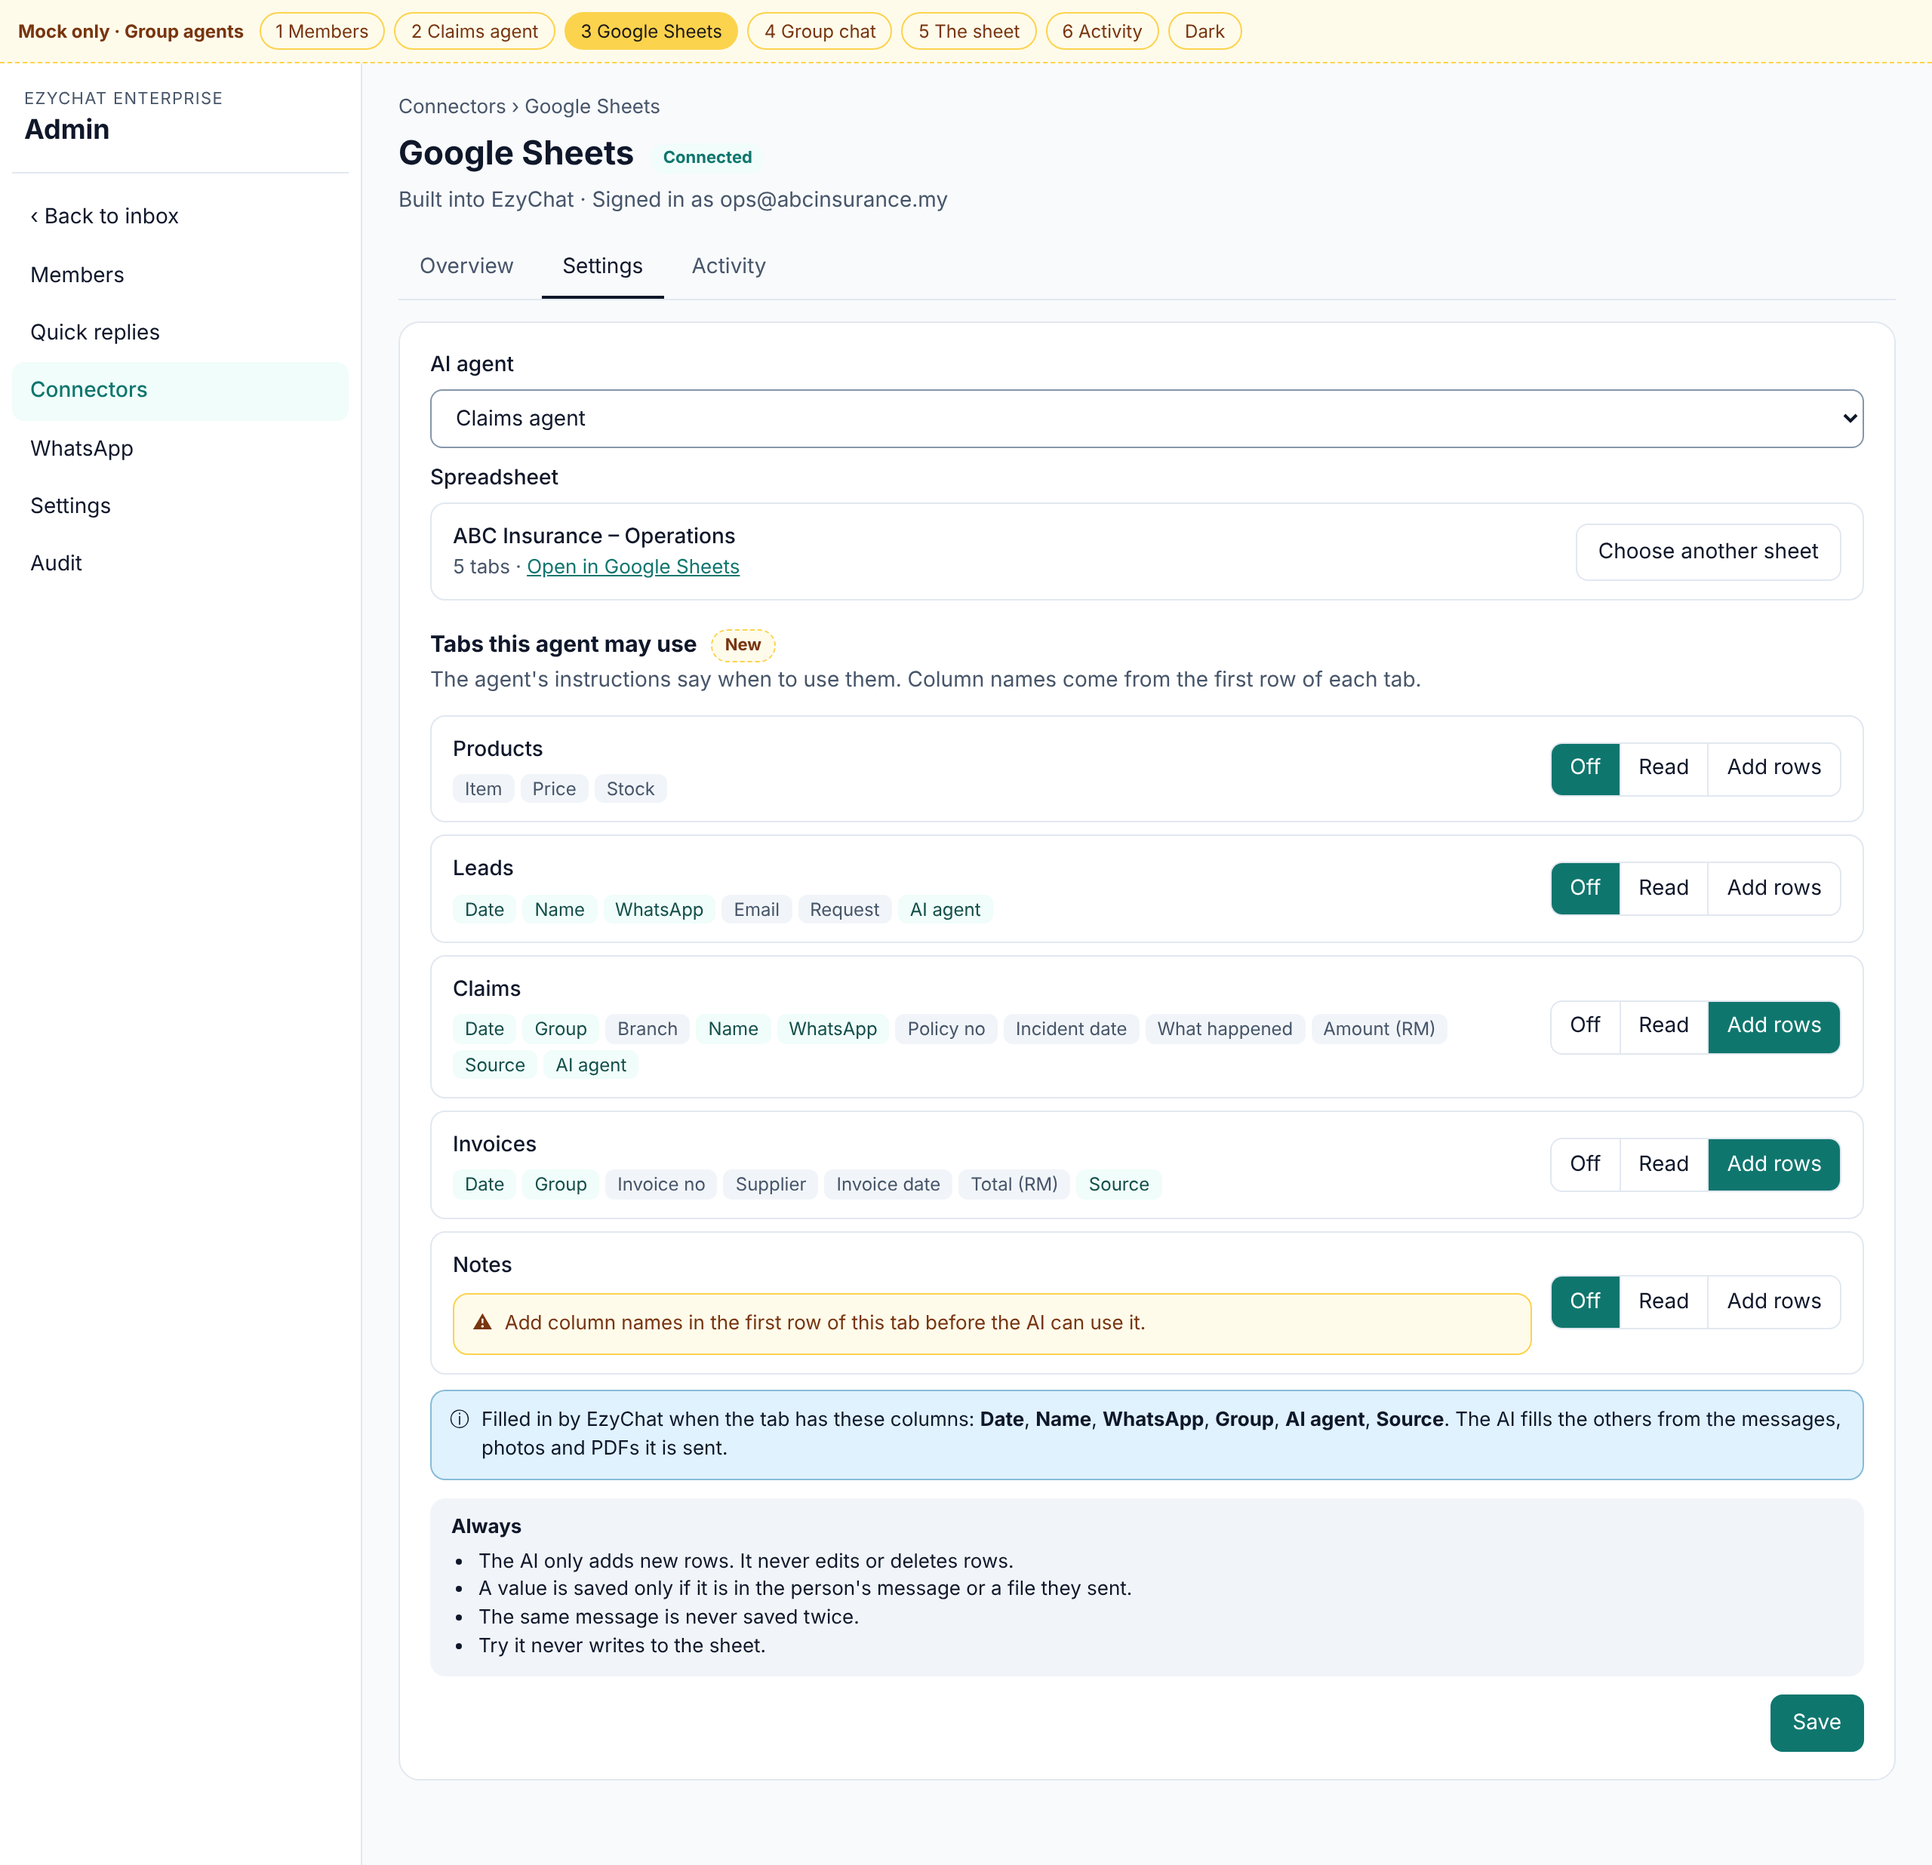
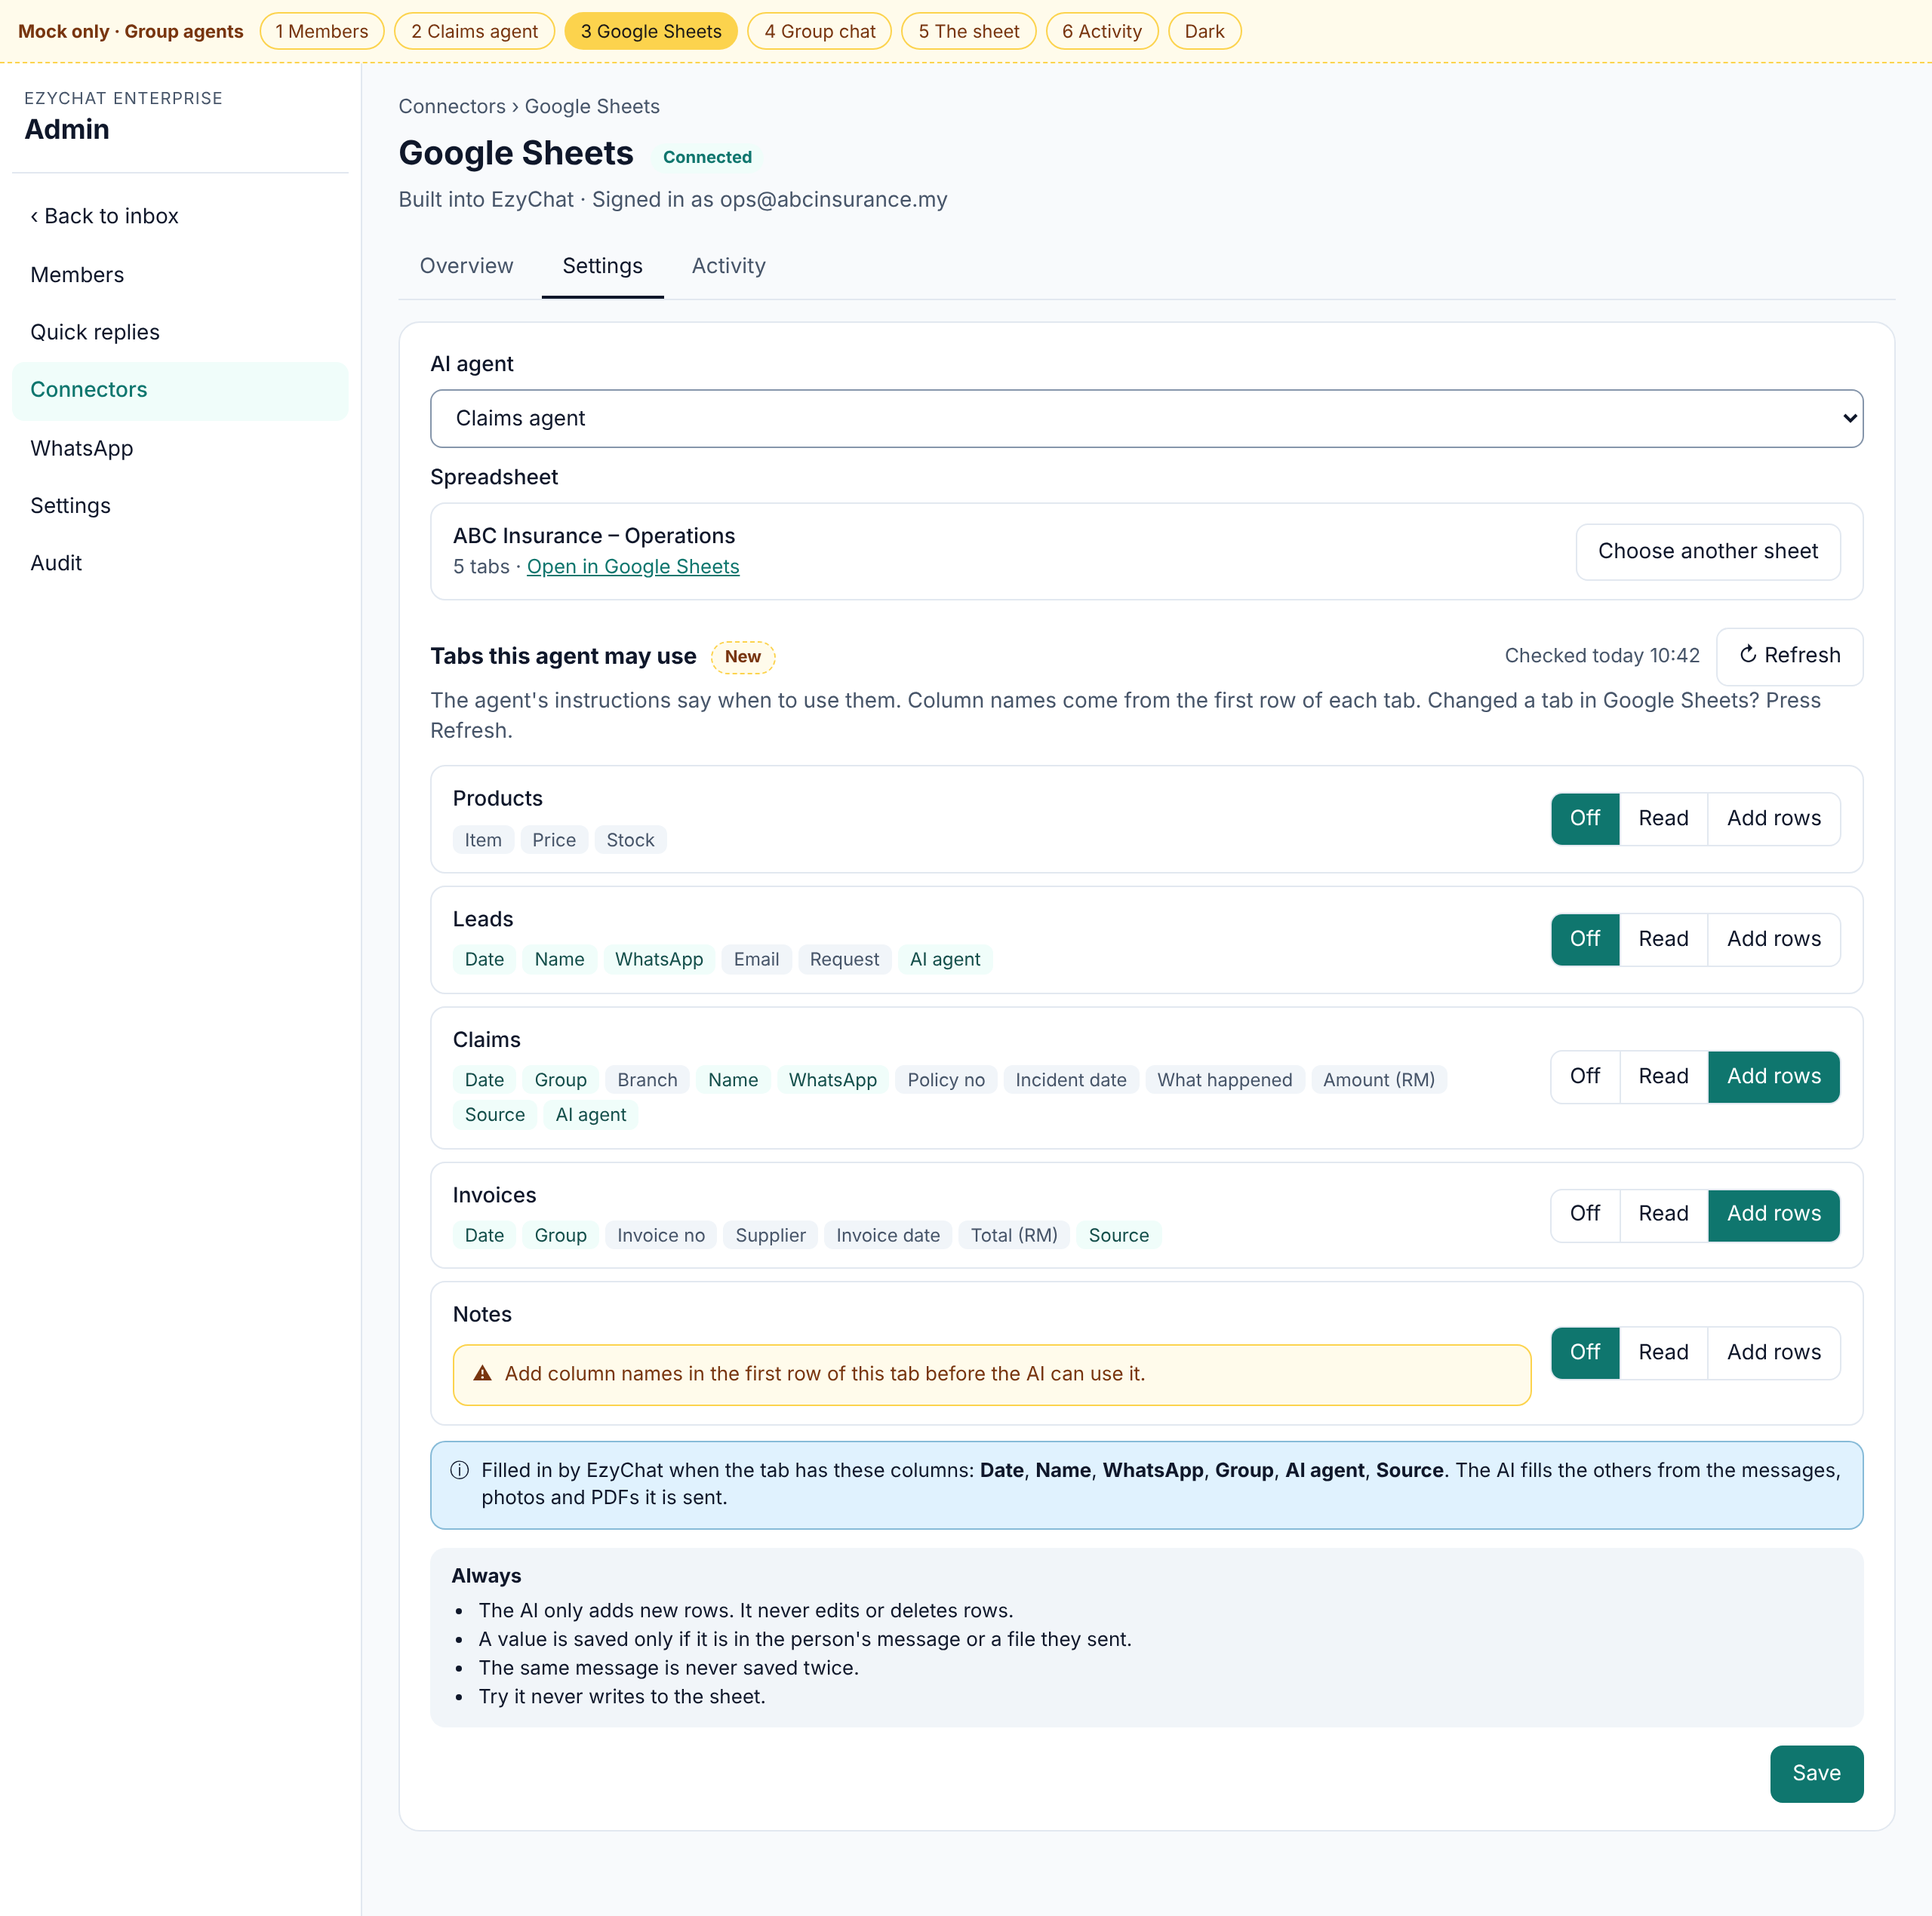
docs(group-agents): Refresh button for Google Sheets tabs and columns
Owner 2026-11-03: refresh after editing a tab in Google Sheets.

Claude-Session: https://claude.ai/code/session_01J4pmGhxhpWixELh6WUYPxh

diff --git a/docs/features/group-agents/mock/preview.html b/docs/features/group-agents/mock/preview.html
@@ -596,6 +596,11 @@
       .menu-btn {
         display: none;
       }
+      .chip.added {
+        outline: 1px dashed var(--note-border);
+        background: var(--note);
+        color: var(--note-foreground);
+      }
       .ctl {
         display: flex;
         align-items: center;
@@ -832,18 +837,23 @@ Ignore greetings and chat that is not a claim.</textarea
               <div class="grow">
                 <div class="t">ABC Insurance – Operations</div>
                 <div class="h">
-                  5 tabs · <a href="#" style="color: var(--primary)">Open in Google Sheets</a>
+                  <span id="tabCount">5 tabs</span> ·
+                  <a href="#" style="color: var(--primary)">Open in Google Sheets</a>
                 </div>
               </div>
               <button class="btn">Choose another sheet</button>
             </div>
 
-            <h2 style="margin-top: 18px">
-              Tabs this agent may use <span class="badge new">New</span>
-            </h2>
+            <div class="row" style="border: 0; padding: 0; margin: 18px 0 0">
+              <h2 style="margin: 0">Tabs this agent may use <span class="badge new">New</span></h2>
+              <div class="ctl">
+                <span class="lbl" id="checked" aria-live="polite">Checked today 10:42</span>
+                <button class="btn" id="refreshTabs">↻ Refresh</button>
+              </div>
+            </div>
             <p class="desc">
               The agent's instructions say when to use them. Column names come from the first row of
-              each tab.
+              each tab. Changed a tab in Google Sheets? Press Refresh.
             </p>
             <div id="tabList"></div>
             <div class="info">
@@ -1115,7 +1125,7 @@ Ignore greetings and chat that is not a claim.</textarea
             (
               t,
               i,
-            ) => `<div class="row"><div class="grow"><div class="t">${t.n}</div>${t.c.length ? `<div class="chips">${t.c.map((c) => `<span class="chip ${AUTO.includes(c) ? 'auto' : ''}">${c}</span>`).join('')}</div>` : ''}
+            ) => `<div class="row"><div class="grow"><div class="t">${t.n}${t.isNew ? ' <span class="badge new">New tab</span>' : ''}${t.changed ? ' <span class="badge new">Columns changed</span>' : ''}</div>${t.c.length ? `<div class="chips">${t.c.map((c) => `<span class="chip ${AUTO.includes(c) ? 'auto' : ''} ${(t.added || []).includes(c) ? 'added' : ''}">${c}</span>`).join('')}</div>` : ''}
   ${!t.c.length ? `<div class="warn">⚠ <span>Add column names in the first row of this tab before the AI can use it.</span></div>` : ''}</div>
   <div class="seg" role="group" aria-label="Access to ${t.n}">${['off', 'read', 'add'].map((a) => `<button aria-pressed="${t.a === a}" data-t="${i}" data-a="${a}" ${!t.c.length && a !== 'off' ? 'disabled' : ''}>${{ off: 'Off', read: 'Read', add: 'Add rows' }[a]}</button>`).join('')}</div></div>`,
           )
@@ -1123,6 +1133,42 @@ Ignore greetings and chat that is not a claim.</textarea
       }
       renderTabs();
       $('#agentSel').onchange = renderTabs;
+      // Refresh: reads the tab names and first rows from Google again (mock: Claims gained "Workshop",
+      // Notes got column names, a new tab "Repairs" appeared and stays Off until an admin turns it on).
+      $('#refreshTabs').onclick = () => {
+        const b = $('#refreshTabs');
+        b.disabled = true;
+        b.textContent = 'Refreshing…';
+        setTimeout(() => {
+          for (const k of Object.keys(tabs)) {
+            const list = tabs[k];
+            const claims = list.find((t) => t.n === 'Claims');
+            if (!claims.c.includes('Workshop')) {
+              claims.c.splice(claims.c.indexOf('Source'), 0, 'Workshop');
+              claims.added = ['Workshop'];
+              claims.changed = true;
+            }
+            const notes = list.find((t) => t.n === 'Notes');
+            if (!notes.c.length) {
+              notes.c = ['Date', 'Group', 'Note'];
+              notes.added = ['Date', 'Group', 'Note'];
+              notes.changed = true;
+            }
+            if (!list.some((t) => t.n === 'Repairs'))
+              list.push({
+                n: 'Repairs',
+                a: 'off',
+                isNew: true,
+                c: ['Date', 'Group', 'Policy no', 'Workshop', 'Status'],
+              });
+          }
+          b.disabled = false;
+          b.textContent = '↻ Refresh';
+          $('#checked').textContent = 'Checked just now · 1 new tab, 2 tabs changed';
+          $('#tabCount').textContent = '6 tabs';
+          renderTabs();
+        }, 600);
+      };
       $('#tabList').addEventListener('click', (e) => {
         const b = e.target.closest('[data-a]');
         if (!b) return;
@@ -1372,20 +1418,18 @@ Ignore greetings and chat that is not a claim.</textarea
         document
           .querySelectorAll('.mockbar [data-go]')
           .forEach((b) => b.setAttribute('aria-pressed', b.dataset.go === id));
-        document
-          .querySelectorAll('nav.side [data-nav]')
-          .forEach((a) =>
-            a.classList.toggle(
-              'active',
-              a.dataset.nav ===
-                {
-                  members: 'members',
-                  agent: 'members',
-                  sheets: 'connectors',
-                  activity: 'connectors',
-                }[id],
-            ),
-          );
+        document.querySelectorAll('nav.side [data-nav]').forEach((a) =>
+          a.classList.toggle(
+            'active',
+            a.dataset.nav ===
+              {
+                members: 'members',
+                agent: 'members',
+                sheets: 'connectors',
+                activity: 'connectors',
+              }[id],
+          ),
+        );
         history.replaceState(null, '', '#' + id);
         window.scrollTo(0, 0);
       }

diff --git a/docs/features/group-agents/design.md b/docs/features/group-agents/design.md
@@ -38,6 +38,7 @@ confirmation"). Created 2026-11-03 (creationOrder 28). Branch `claude/determined
 | Tools     | `read_sheet_rows {tab, query}` and `add_sheet_row {tab, values: {column: value}}`. Their descriptions list only this agent's tabs for that access, each with its column names (first row, read when the turn starts, cached 5 min). No tab on Add rows = no `add_sheet_row`; same for Read.                                                                                                                                                                                                                                                                                  |
 | Columns   | Values are matched to the tab's first-row names (case and spacing ignored); unknown names are refused with the list of valid ones. Columns named Date, Name, WhatsApp, Group, AI agent are filled by EzyChat (business time zone, saved/WhatsApp name, the sender's number, the group's name so one sheet can serve many groups, e.g. one per branch, agent name) unless the AI passes a value.                                                                                                                                                                              |
 | Empty tab | Add rows needs a first row; Settings shows "Add column names in the first row of this tab" and the tool is not offered for it.                                                                                                                                                                                                                                                                                                                                                                                                                                               |
+| Refresh   | Settings shows when the tabs were last checked and a **Refresh** button: `POST /api/connectors/google-sheets/agents/:agentId/refresh` (admins, 1 a 10 s per install) reads the tab names and first rows from Google again and clears the 5-minute column cache, so the AI uses the new columns from its next reply. Result marks a new tab (Off until an admin turns it on), changed columns and a removed tab (its access is dropped on Save, never silently). Opening Settings also checks once.                                                                           |
 | Guards    | Values written with `valueInputOption=RAW`. Every value the AI passes (other than auto columns) must come from the person it records for (the customer in a direct chat, the member in a group): their text, or a file they sent (see Part C). A typed value must appear in their messages (spacing/case ignored, numbers and dates normalised); a value read from a file is allowed only when the turn was given that file. Else refused with "ask the person for it". Never in Try it.                                                                                     |
 | Limit     | No limit on rows: a tab can keep growing for as long as the business uses it. One guard only: the same row is never saved twice (key: chat, tab, message id and a hash of the values, so a retry or a re-read batch adds nothing, while one PDF with three invoices still adds three rows). Rows are added only in a turn started by a person's message, so the AI cannot loop on its own. Google's per-minute write quota is handled by queueing (retry after the minute), never by dropping a row. Migration adds `tab`, `message_id` and `values_hash` to `sheets_leads`. |
 | Prompt    | No sheet text in `CORE_RULES` (unchanged connector-neutral rule). The tool descriptions carry the tabs; the agent's instructions say when to use them.                                                                                                                                                                                                                                                                                                                                                                                                                       |
@@ -88,7 +89,7 @@ connector or tab:
    until the edition's limit; Lite at its limit shows the existing upgrade hint.
 2. Agent page Direct chats card: switching on for a second agent of the inbox → error "Sales agent already
    answers direct chats on this number".
-3. Google Sheets → Settings per agent: spreadsheet, tab list (Off / Read / Add rows), column names under each tab,
+3. Google Sheets → Settings per agent: spreadsheet, tab list (Off / Read / Add rows), column names under each tab, Refresh (new tab, changed columns),
    empty-first-row warning, a tab Google no longer lists, Claims agent with only Claims on Add rows.
 4. Agent page → Connectors row: "Reads Products · Adds rows to Claims".
 5. Agent page Groups card: Add groups (multi-select), three branch groups listening, Remove.
